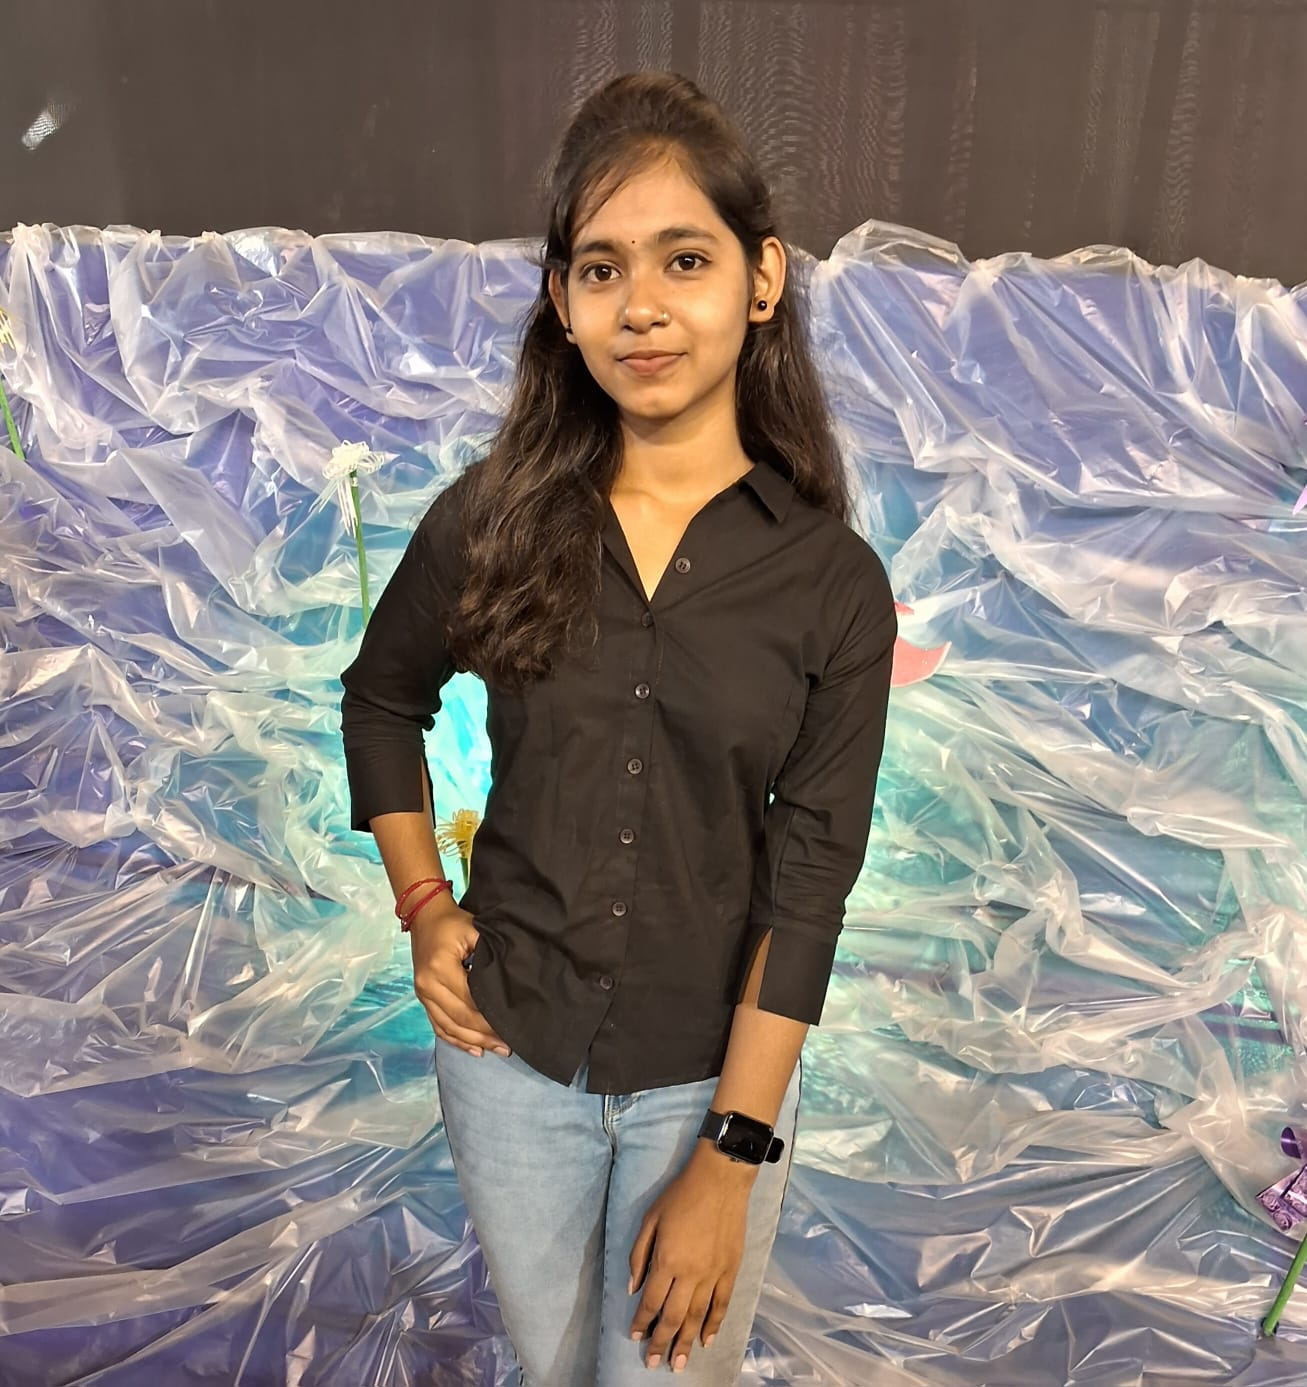
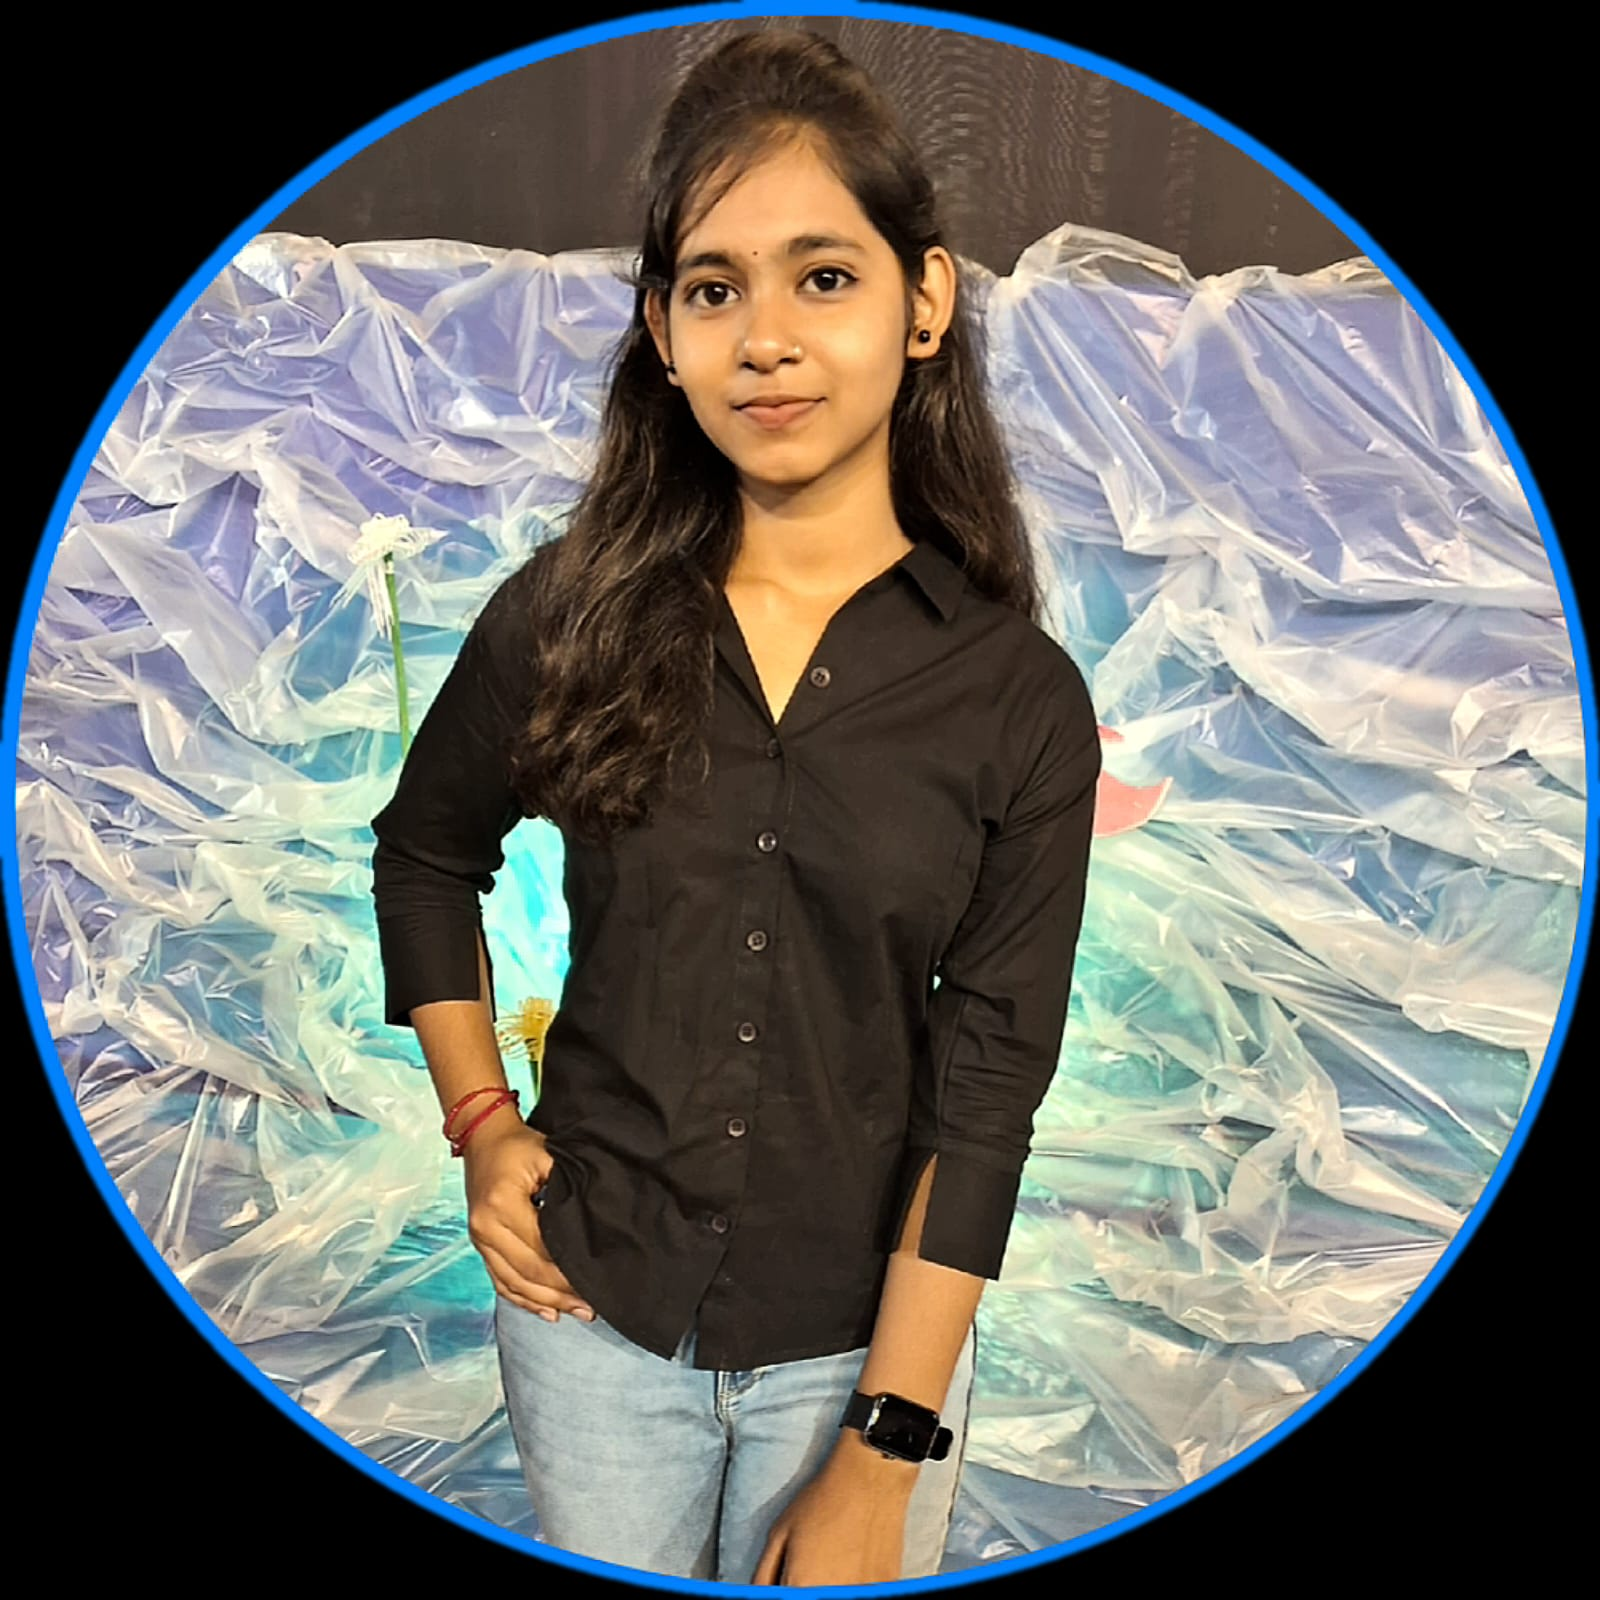
Updated portfolio design and projects section

diff --git a/src/components/About.jsx b/src/components/About.jsx
@@ -107,7 +107,7 @@ const About = ({ darkMode }) => {
             {[
               { num: "2+", label: "Years Learning" },
               { num: "6+", label: "Projects" },
-              { num: "5+", label: "Technologies" },
+              { num: "5+", label: "Seminars" },
             ].map((item, i) => (
               <motion.div
                 key={i}
